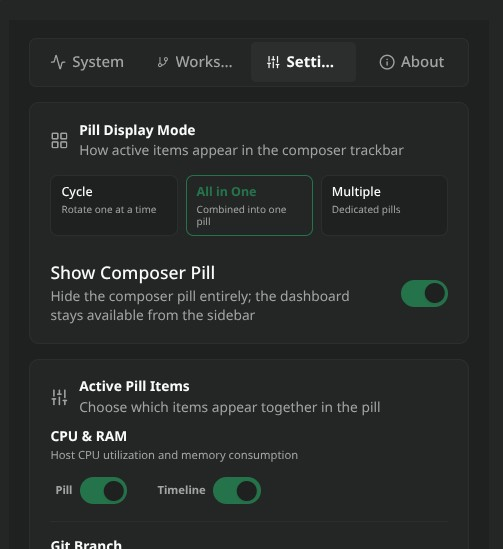
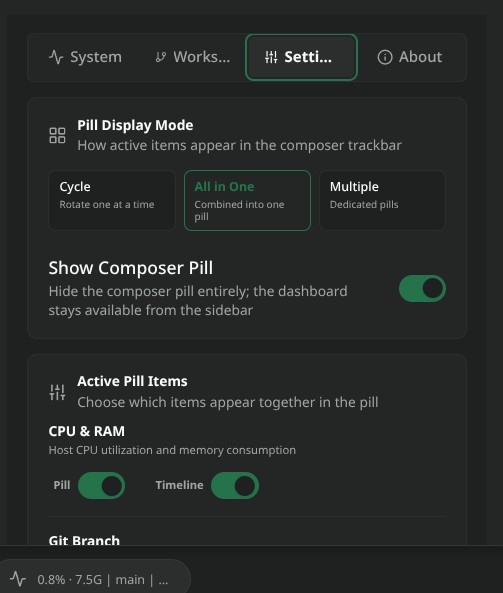
docs(top): add dashboard screenshot alongside general view and update settings screenshot

diff --git a/plugins/top/README.md b/plugins/top/README.md
@@ -1,7 +1,8 @@
 # paseo-top
 
 <p align="center">
-  <img src="screenshots/paseo-top-general-view.jpg" alt="Paseo Top General View" />
+  <img src="screenshots/paseo-top-general-view.jpg" alt="Paseo Top General View" width="48%" />
+  <img src="screenshots/paseo-top-dashboard.jpg" alt="Paseo Top Dashboard Surface" width="48%" />
 </p>
 
 Live host system resource monitor and telemetry provider for [Paseo](https://github.com/getpaseo/paseo) (v0.8+).
